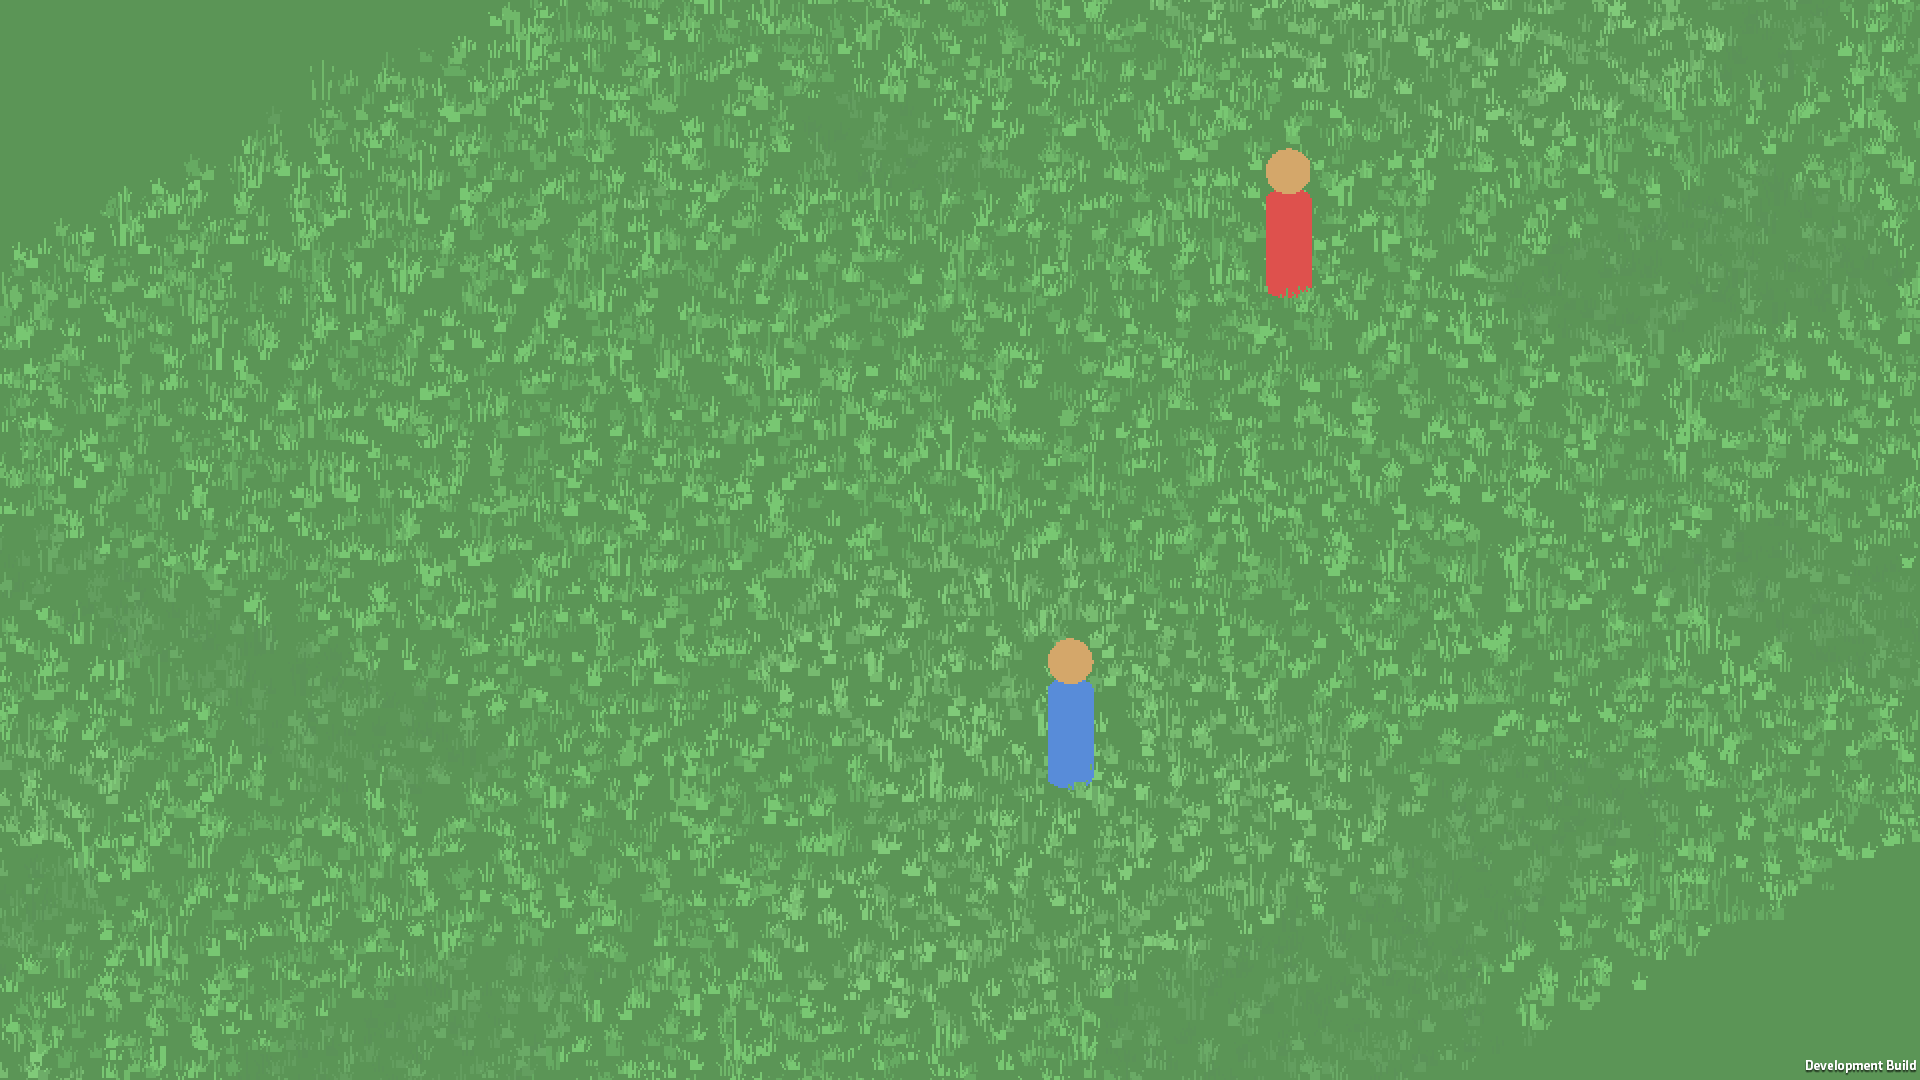
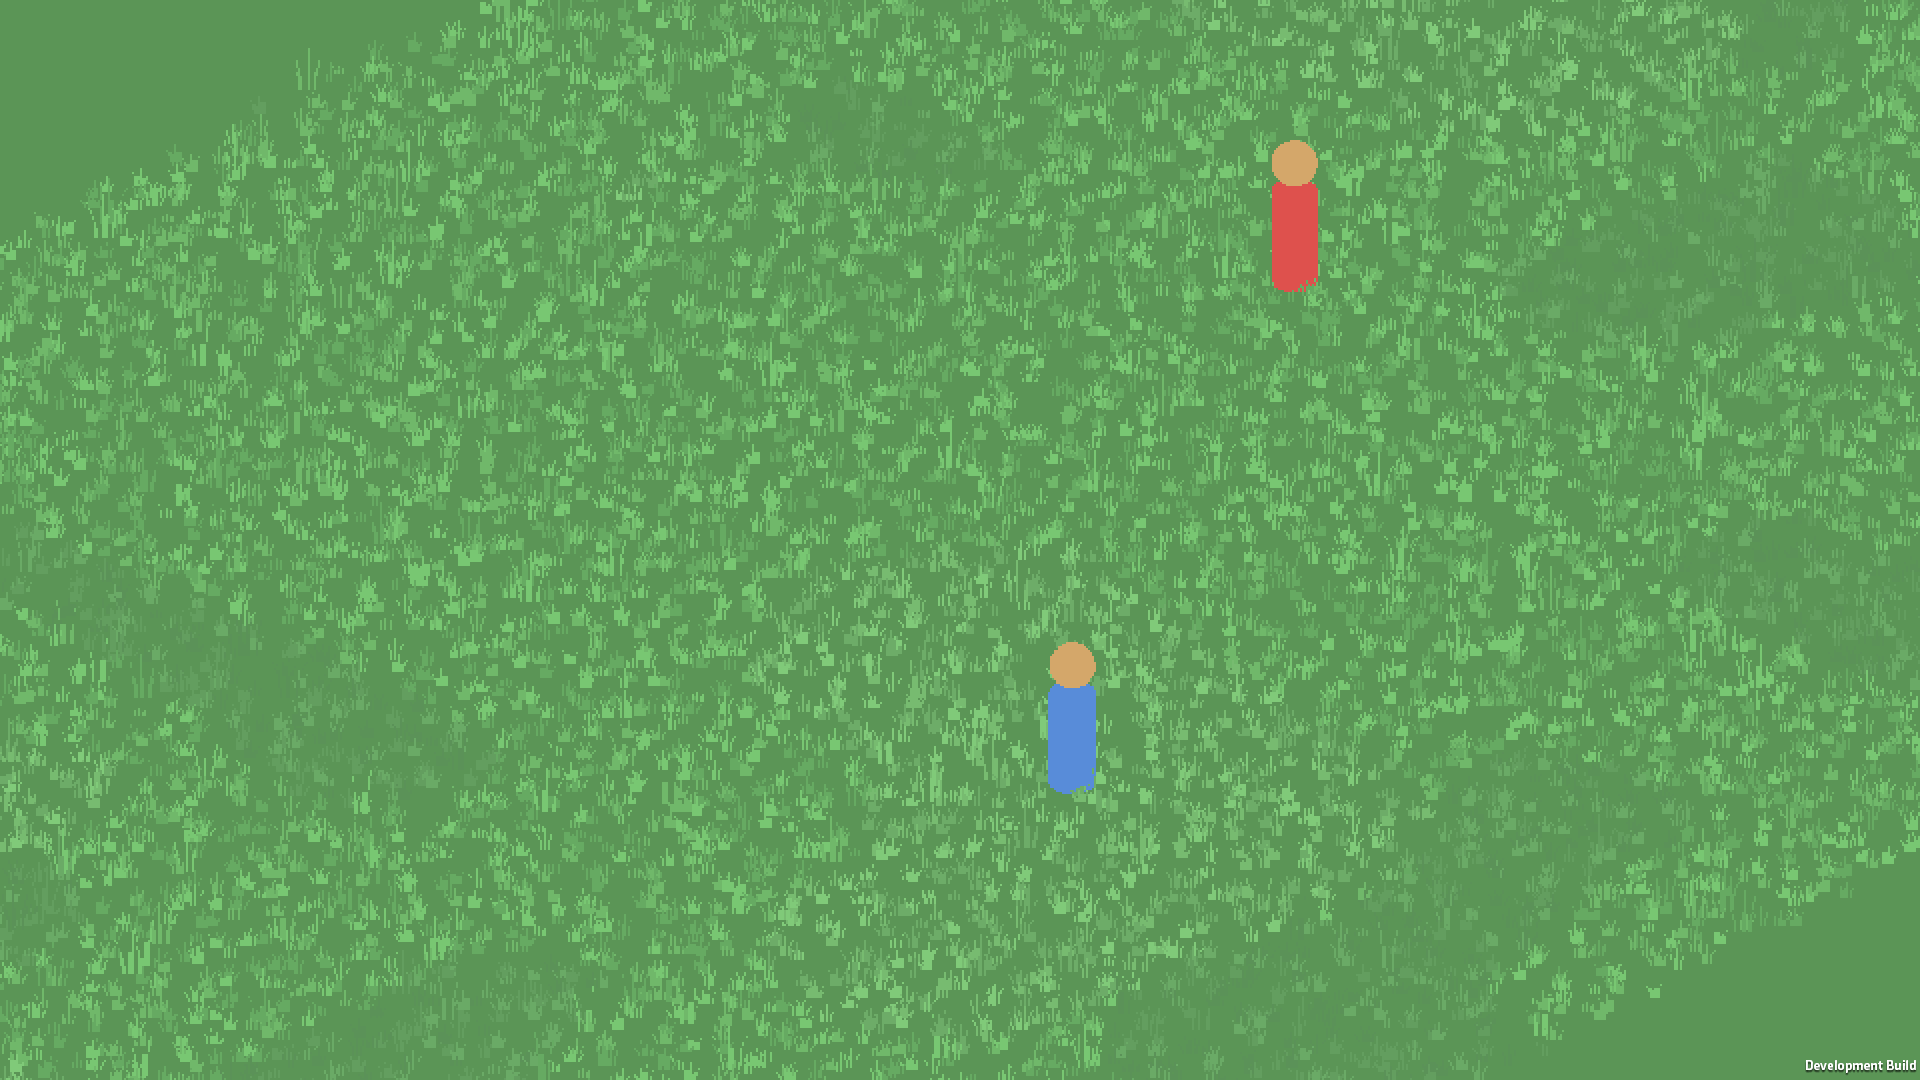
docs(pixelart): r25 最终批归档——出线三型终版 + 13.7/降线2 定值验收
终验读数：判据全部核心项通过；dbg-outline 墨线 1708、包围盒只罩两个
角色（草地零墨点）；角色区外近黑 1156 回落到 r24 基线量级（差额为
降两档叶缘压暗）。登记行补终版口径与创始人定值。

Changed region(s): [[0.0, 0.0, 1.0, 1.0]]

diff --git a/docs/项目/交接/活跃任务登记.md b/docs/项目/交接/活跃任务登记.md
@@ -12,7 +12,11 @@
   （`0ee64fc4`，边界间距 1/level 口径）/ 默认强度定 0.21（`9e7b5d84`，创始人定值，
   118 .mat 推平）/ 密度图案满幅按模式归一（`f781bae1`）/ 草坪全系关闭连通域降档
   （`983ed426`，剪影旁草地误压暗的毛边 + 草叶边缘深噪，13 材质 `_AAScale=0`，Configure
-  新增 aaScale 参数）；
+  新增 aaScale 参数）/ 出线三型终版：填充列不上墨 + 外圈出线须邻域开着描边
+  （`04ccb22c`→`32528872`，中途两个回归已修）；创始人定值落地：默认可见米数 13.7
+  （`CameraFraming.CloseUpOrthoSize` 6.85 + 出图表五关同步）、内档降线 = 2（`35299eab`）；
+  终验（r25 最终批）：判据全绿、dbg-outline 墨线 1708 且草地零墨点、角色区外近黑 1156
+  回落到基线量级；无草对照诊断开关 `PC3D_GRASSFIELD_NO_TUFTS` 已入装配器；
   **验收产物（可直接点开）：`F:\VSCode\pirate-crew-3d-unity\docs\images\pixelart-path\r25\README.md`**
   （判据全部核心项通过；头部弧区降档色 36px→0；染色图对比 F:\tmp\map-r24-mid.png →
   F:\tmp\map-r25-mid.png）；出图注意：`external/build/` 根下的 exe 是 9/21 旧残留，

diff --git a/docs/images/pixelart-path/r25/README.md b/docs/images/pixelart-path/r25/README.md
@@ -23,6 +23,12 @@
 >    `_AAScale = 0`（`Configure` 新增 `aaScale` 参数，角色/道具保持 1），草叶边缘深噪同机制
 >    一并消除。
 
+> 6. **出线三型两度翻车与终版**（`04ccb22c` → `32528872`）：填充列不上墨修复引入两个回归
+>    （uvRight 声明丢失编译错、外圈出线漏"邻域须开着描边"限定 → 草坪 19.7 万墨点），
+>    终版口径：**外圈/接缝出线要求邻域开着描边；两者同为物体且连通 = 填充列保持填充；
+>    近侧自描边要求邻域不开**。终验：dbg-outline 全图墨线 1708、包围盒只罩两个角色
+>    （草地零墨点）；角色区外近黑像素 1156（r24 基线 720 同量级，差额为降两档的叶缘压暗）。
+
 ## 判读
 
 - **角色剪影闭合**：mid 机位染色图（角色=红/墨线=黑）显示左剪影整条有墨、底缘贴合收口；
